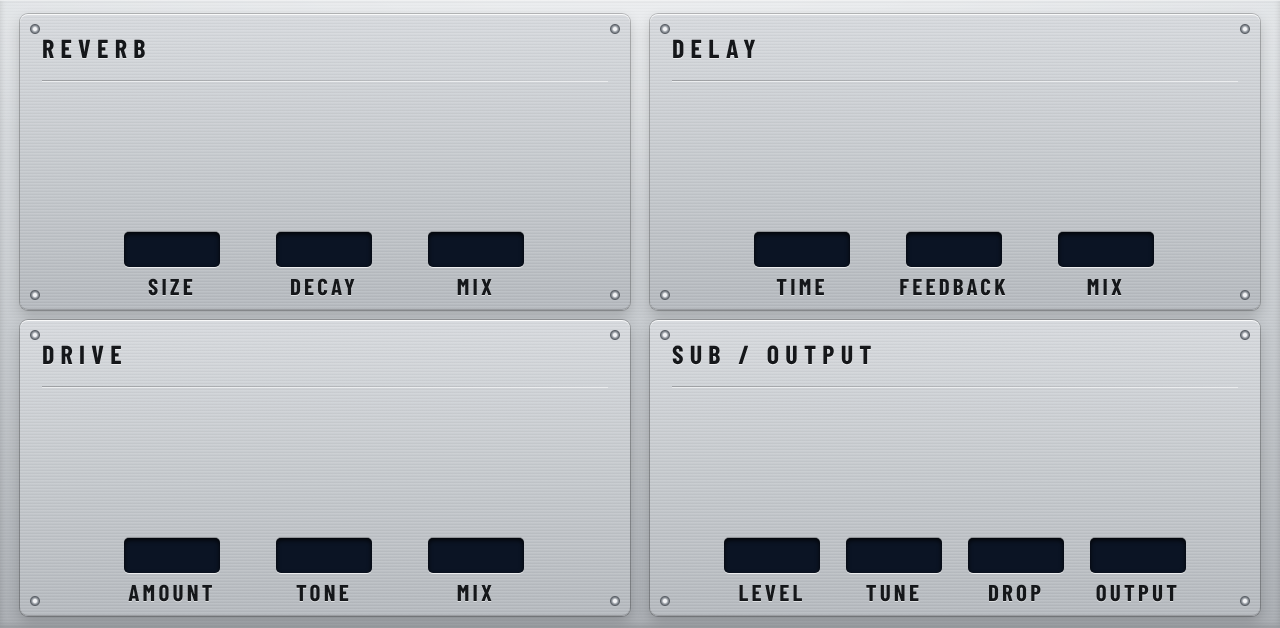
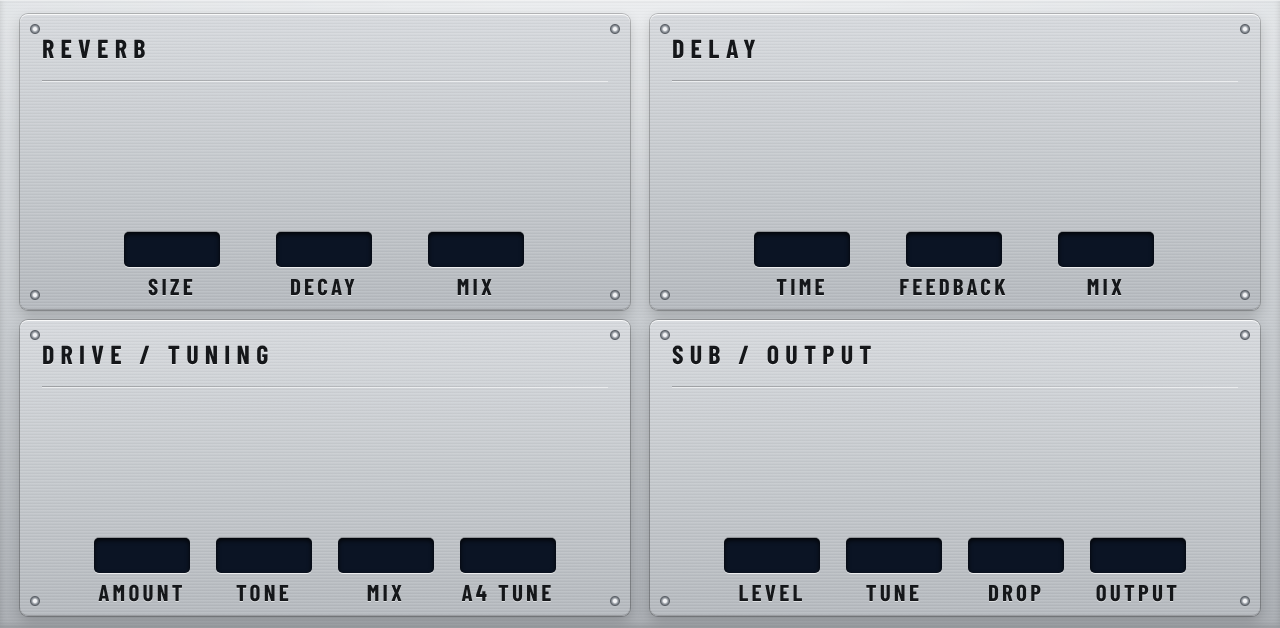
0.7.3: A4 Tune knob (415-466 Hz) on the FX page
Claude-Session: https://claude.ai/code/session_01JcLVG4HPbzGWwACmKsj6RZ

Changed region(s): [[0.0625, 0.8471, 0.4375, 0.9682], [0.125, 0.5446, 0.2188, 0.5748]]

diff --git a/vst/engine.c b/vst/engine.c
@@ -211,7 +211,11 @@ static inline unsigned rnd(unsigned *st) { *st ^= *st << 13; *st ^= *st >> 17; *
 static inline float frand(unsigned *st) { return (rnd(st) >> 8) * (1.0f / 16777216.0f); }        /* 0..1 */
 static inline float nrand(unsigned *st) { return frand(st) * 2.0f - 1.0f; }                      /* -1..1 */
 static float HANN[257];
-static float note_hz(float n) { return 440.0f * exp2f((n - 69.0f) / 12.0f); }
+/* A4 Tune: the reference pitch, 415..466 Hz (440 standard). Set from the instance at the top of midi() and
+   render(), which run on one thread, so every pitch below (samples and synthesis) follows it. */
+static float g_tune = 1.0f;
+static inline void set_tune(float hz) { g_tune = hz > 400.0f ? hz / 440.0f : 1.0f; }
+static float note_hz(float n) { return 440.0f * g_tune * exp2f((n - 69.0f) / 12.0f); }
 
 /* ---------- voices ---------- */
 #define NP 8                 /* bell partials */
@@ -302,7 +306,7 @@ static int idx_of(const char *key) {
 #define P(name) (s->val[I_##name] * 0.01f)
 static int I_master, I_velocity, I_breath, I_attack, I_release, I_air, I_dark, I_lofi, I_motion,
     I_rv_size, I_rv_decay, I_rv_mix, I_dl_time, I_dl_feedback, I_dl_mix, I_dr_amount, I_dr_tone, I_dr_mix,
-    I_sb_level, I_sb_tune, I_sb_drop, I_orb;
+    I_sb_level, I_sb_tune, I_sb_drop, I_orb, I_a4;
 static int I_cat[2], I_sel[2][NCATS], I_sound[2], I_oct[2], I_k1[2], I_k2[2], I_k3[2], I_level[2];
 static int g_idx_done;
 static void init_idx(void) {
@@ -310,7 +314,7 @@ static void init_idx(void) {
 #define X(n) I_##n = idx_of(#n)
     X(master); X(velocity); X(breath); X(attack); X(release); X(air); X(dark); X(lofi); X(motion);
     X(rv_size); X(rv_decay); X(rv_mix); X(dl_time); X(dl_feedback); X(dl_mix); X(dr_amount); X(dr_tone); X(dr_mix);
-    X(sb_level); X(sb_tune); X(sb_drop); X(orb);
+    X(sb_level); X(sb_tune); X(sb_drop); X(orb); X(a4);
 #undef X
     static const char *CATKEY[NCATS] = {"", "voices", "winds", "brass", "strings", "bells", "synth", "air"};
     for (int sl = 0; sl < 2; sl++) {
@@ -454,7 +458,7 @@ static void add_src(voice_t *v, const zone_t *z, int note, float g, float pan, f
     src_t *x = &v->s[v->nsrc++];
     x->z = z;
     x->i = 0; x->fr = 0.0f;
-    x->inc_base = exp2f((note - z->pitch + detune_cents / 100.0f) / 12.0f);
+    x->inc_base = g_tune * exp2f((note - z->pitch + detune_cents / 100.0f) / 12.0f);
     x->g = g;
     float a = (pan + 1.0f) * 0.25f * (float)M_PI;   /* equal-power pan, -1..1 */
     x->gl = cosf(a); x->gr = sinf(a);
@@ -652,6 +656,7 @@ static int lowest_key(oxz_t *s) {
 
 static void midi(void *inst, const uint8_t *m, int n) {
     oxz_t *s = inst;
+    set_tune(s->val[I_a4]);
     if (n < 2) return;
     int st = m[0] & 0xF0;
     if (st == 0xE0 && n >= 3) { s->bend = (((m[2] << 7) | m[1]) - 8192) / 8192.0f * 2.0f; return; }
@@ -909,7 +914,7 @@ static void grain_spawn(voice_t *v, const zone_t *z, float target_note, float si
     for (int g = 0; g < NGRAIN; g++) if (!v->gr[g].on) { slot = g; break; }
     if (slot < 0) return;
     grain_t *g = &v->gr[slot];
-    float inc = exp2f((target_note - z->pitch + detune_cents / 100.0f) / 12.0f);
+    float inc = g_tune * exp2f((target_note - z->pitch + detune_cents / 100.0f) / 12.0f);
     float len = size_s * SR;
     float span = len * inc;
     float avail = (float)z->le - 8.0f;
@@ -1241,6 +1246,7 @@ static void sub_block(oxz_t *s, float *L, float *R, int frames) {
 
 static void render(void *inst, int16_t *out, int frames) {
     oxz_t *s = inst;
+    set_tune(s->val[I_a4]);
     const bank_t *b = __atomic_load_n(&g_bank, __ATOMIC_ACQUIRE);
     float L[128], R[128];
     memset(L, 0, sizeof L); memset(R, 0, sizeof R);

diff --git a/vst/skin/make_skin.py b/vst/skin/make_skin.py
@@ -108,7 +108,7 @@ def label_top(cy, r=SLOT_R, vs=SLOT_VS):
 
 FX = [("rv", "Reverb", ["Size", "Decay", "Mix"], 20, 100),
       ("dl", "Delay", ["Time", "Feedback", "Mix"], 650, 100),
-      ("dr", "Drive", ["Amount", "Tone", "Mix"], 20, 406),
+      ("dr", "Drive / Tuning", ["Amount", "Tone", "Mix"], 20, 406),
       ("sb", "Sub / Output", ["Level", "Tune", "Drop"], 650, 406)]
 FX_R, FX_VS, FX_BW = 56, 28, 116   # Sub / Output has 4 knobs 122 px apart
 
@@ -116,12 +116,14 @@ FX_R, FX_VS, FX_BW = 56, 28, 116   # Sub / Output has 4 knobs 122 px apart
 def fx_knobs():
     out = []
     for p, name, ks, x0, y0 in FX:
-        n = len(ks) + (1 if p == "sb" else 0)
+        n = len(ks) + (1 if p in ("sb", "dr") else 0)
         step = 610 // (n + 1)
         for i, k in enumerate(ks):
             out.append(("%s_%s" % (p, k.lower()), k, x0 + step * (i + 1), y0 + 160))
         if p == "sb":
             out.append(("master", "Output", x0 + step * n, y0 + 160))
+        if p == "dr":   # A4 reference pitch, in Hz
+            out.append(("a4", "A4 Tune", x0 + step * n, y0 + 160))
     return out
 
 

diff --git a/docs/release-notes-0.7.3.md b/docs/release-notes-0.7.3.md
@@ -1,0 +1,27 @@
+**What's new in 0.7.3:** an **A4 Tune** knob on the FX page (in the Drive / Tuning panel) sets the reference pitch from 415 to 466 Hz (440 is standard; 432, 442 and 443 are common). Every sound follows it. Saved projects and presets carry over and stay at 440 Hz.
+
+**Also since 0.7.1:** the sub is now off in every preset except the seven built around it, and sits lower (18–25) in those.
+
+**OXZYGEN 0.7.3**: a dark, cinematic instrument for MPC standalone: choirs, vowels and sung "doo"s, flutes, reeds, brass, atmospheric strings, bells, Juno-style synths, wind and textures, with a CRT crystal-ball orb that reacts as you play.
+
+- Two sound slots, each picking a category (Voices, Winds, Brass, Strings, Bells, Synth, Air) and one of 22 sounds
+- FX page: A4 Tune, 415–466 Hz
+- Player page: Velocity, Breath, Attack, Release, Air, Filter (resonant), Lo-Fi, Motion; the mod wheel works on every sound
+- FX: reverb, ping-pong delay, drive, and a gliding sub
+- 96 presets, tagged by category (VOX, WND, BRS, STR, BEL, SYN, AIR), including late-night R&B and horror/film-score sets
+- All samples are CC0 (see CREDITS.md); code is MIT
+
+## Which zip
+
+| Zip | Device |
+|---|---|
+| `OxZygen-0.7.3-mpc-armv7.zip` | **Gen1**: MPC Live, Live II, One, X, Force on **MPC OS 3.x** |
+| `OxZygen-0.7.3-mpc-armv7-os2.zip` | the same Gen1 devices still on **MPC OS 2.x** |
+| `OxZygen-0.7.3-mpc-aarch64.zip` | **Gen2**: MPC Live III and the other 64-bit models (MPC OS 3.x) |
+
+## Requirements
+- An MPC OS standalone device (see above); about 130 MB free on the internal drive. The plugin uses about 131 MB of RAM once loaded.
+- Tested on an MPC Live II (MPC OS 3.10). The OS 2.x and Gen2 builds have not been tried on those units yet: reports welcome.
+
+## Install
+Install with your plugin manager, or unzip and follow `INSTALL.md` inside the zip (`install.sh`, or the manual steps).

diff --git a/README.md b/README.md
@@ -36,7 +36,8 @@ Needs about 130 MB free on the internal drive; OxZygen uses about 131 MB of RAM 
 - **Player**: Velocity, Breath, Attack, Release on the left; Air, Filter, Lo-Fi, Motion on the right; the orb in the middle.
   The mod wheel adds movement on every sound (vibrato, drift, filter, shimmer).
 - **Sound**: two slots. Pick a category, then a sound, an octave, and its three knobs (their names follow the sound) and Level.
-- **FX**: reverb, ping-pong delay, drive, and a sub that follows the lowest note (Drop sets how it slides in), plus Output.
+- **FX**: reverb, ping-pong delay, drive, A4 Tune (415–466 Hz reference pitch), and a sub that follows the lowest note
+  (Drop sets how it slides in), plus Output.
 
 ## Credits and license
 

diff --git a/docs/PLAN.md b/docs/PLAN.md
@@ -106,3 +106,6 @@ No Velocity control: MPC's own pad sensitivity and Full Level cover that. Preset
 
 ## 0.7.2: sub only where it belongs (2026-11-05)
 - Sub off in 89 presets; kept at 18-25 in 7 (stabs, pulse, doom brass, drone, two dark pads). Levels within 1.6 dB; Lean Flute slot raised.
+
+## 0.7.3: A4 Tune (2026-11-05)
+- New last parameter a4 (415-466 Hz, default 440) on the FX page; scales every pitch (sample increments, grains, synth, formants, sub). Measured: synth, flute, choir follow 432/440/466. Projects carry over.
